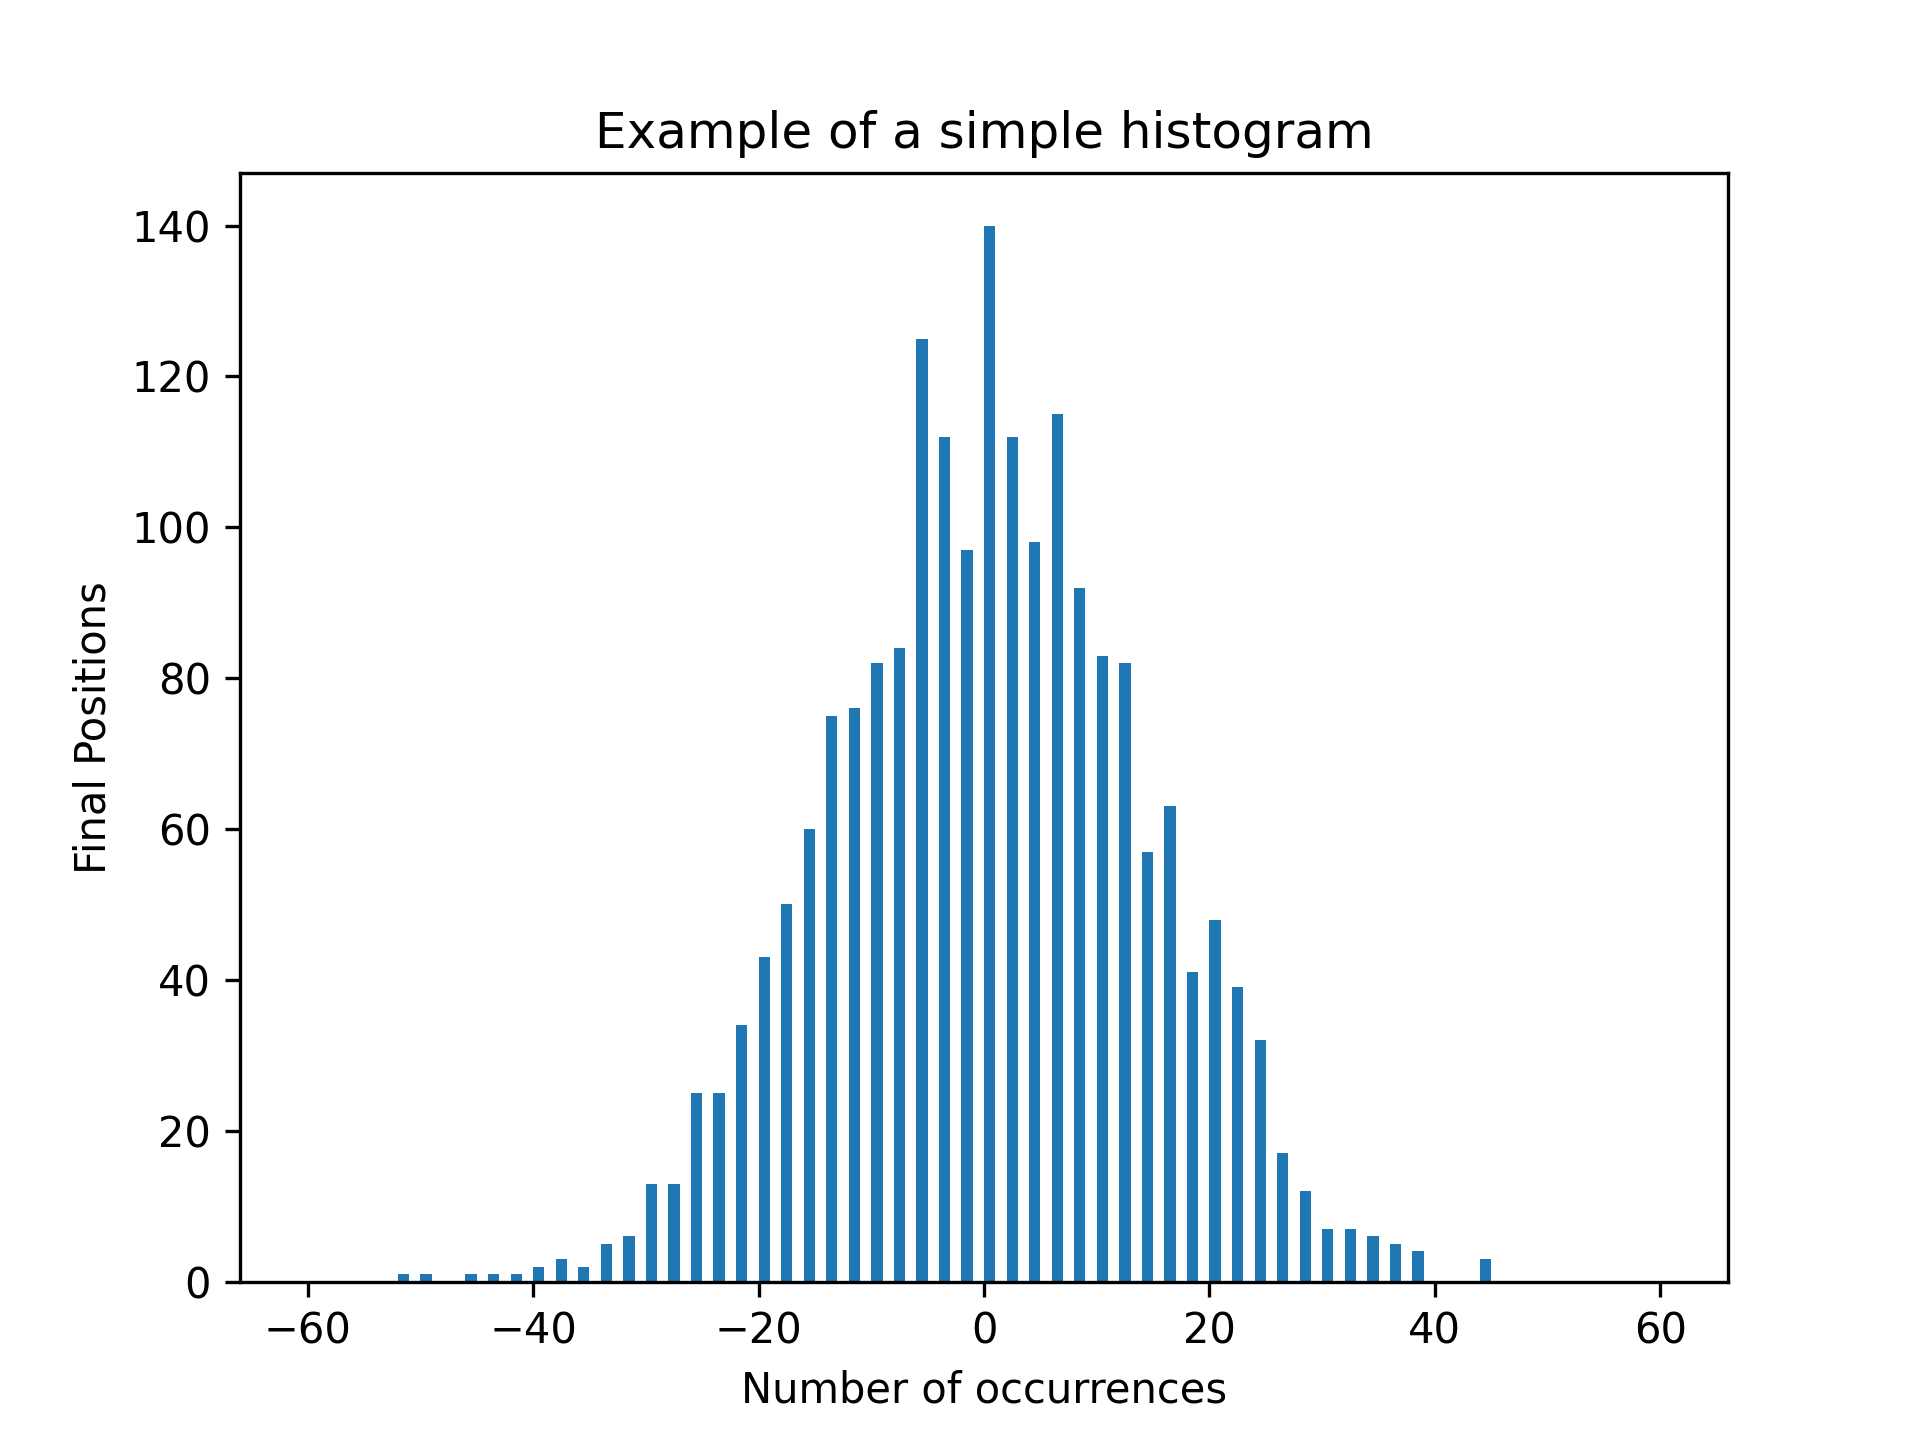
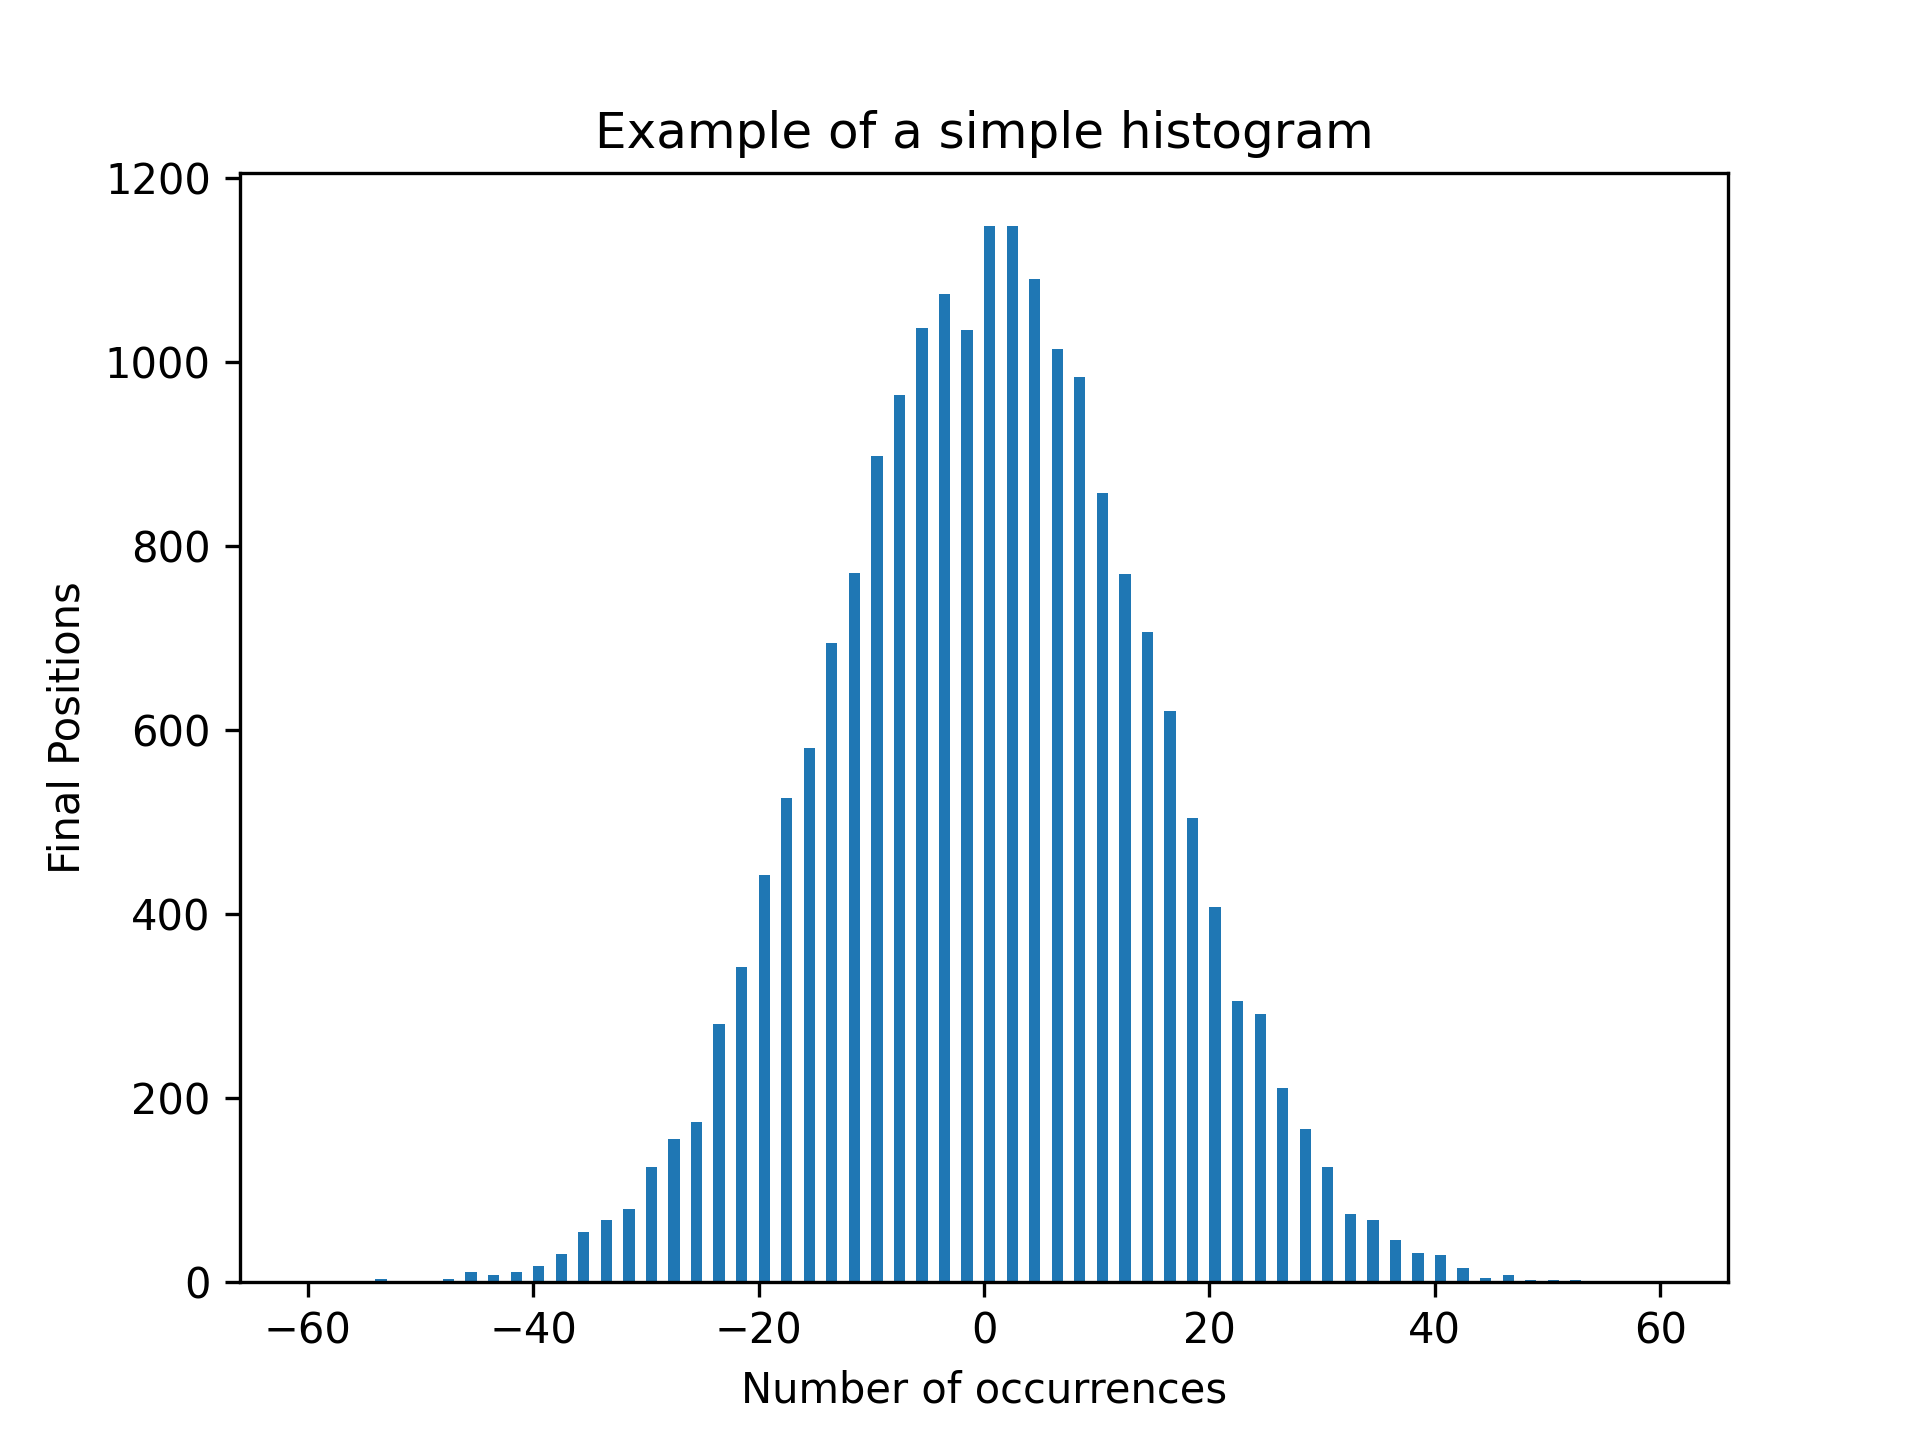
Test de la programmation parallèle sur les random_walk, marche très bien pour diminuer le temps mais à creuser car peut aussi casser le programme si trop de run à la fois

diff --git a/multi_test.py b/multi_test.py
@@ -1,0 +1,54 @@
+import random
+import matplotlib.pyplot as plt
+import numpy as np
+from multiprocessing import Pool
+from time import time
+
+def map_rw_single(args):
+    n, x0 = args
+    positionL = [x0]
+    position = x0
+    for i in range(n):
+        step = random.choice([-1, 1])
+        positionL.append(positionL[i] + step)
+        position += step
+    return positionL
+
+def simulate_random_walks_parallel(n_iterations: int, nb_run: int):
+    with Pool() as pool:
+        results = pool.map(map_rw_single, [(n_iterations, 0) for _ in range(nb_run)])
+    return [result[-1] for result in results]
+
+def simulate_random_walks_serial(n_iterations: int, nb_run: int):
+    results = [map_rw_single((n_iterations, 0)) for _ in range(nb_run)]
+    return [result[-1] for result in results]
+
+print("Running simulations...")
+
+# Example usage:
+n_iterations = 2000
+nb_run = 20000
+
+# Without multiprocessing
+print("Serial execution...")
+start_time = time()
+List_df_serial = simulate_random_walks_serial(n_iterations, nb_run)
+end_time = time()
+print(f"Serial execution time: {end_time - start_time:.4f} seconds")
+
+# With multiprocessing
+print("Parallel execution...")
+start_time = time()
+List_df_parallel = simulate_random_walks_parallel(n_iterations, nb_run)
+end_time = time()
+print(f"Parallel execution time: {end_time - start_time:.4f} seconds")
+
+# Plotting the histogram using serial results
+plt.hist(List_df_serial, range=(-60, 60), bins=120, alpha=0.5, label='Serial')
+# Plotting the histogram using parallel results
+plt.hist(List_df_parallel, range=(-60, 60), bins=120, alpha=0.5, label='Parallel')
+plt.xlabel('Number of occurrences')
+plt.ylabel('Final Positions')
+plt.title('Comparison of Serial and Parallel Execution Times')
+plt.legend()
+plt.show()

diff --git a/random_walk.py b/random_walk.py
@@ -127,7 +127,7 @@ def plot_variance_over_time(n_iterations: int, nb_run: int):
 
 # Example usage:
 n_iterations = 200
-nb_run = 2000
+nb_run = 20000
 x0 = 0
 
 plot_random_walks(n_iterations, nb_run)
